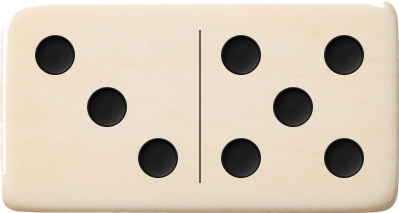
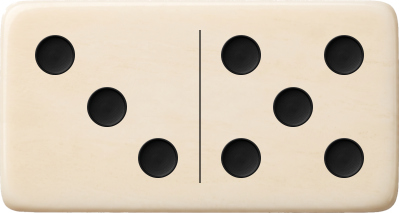
Arreglar el recorte de las fichas blanco hueso
Salian cortadas rectas por la izquierda y con las esquinas mordidas. La
causa se midio en vez de tantearla: el fondo se separa del gris puro
entre 0 y 3, y el marfil entre 24 y 57. El recorte usaba 26, asi que se
comia el borde de la ficha, que ronda 25.

Habia un segundo error escondido: se exigia ademas un brillo minimo de
150, y el borde de abajo de la ficha es oscuro (132), asi que tambien se
perdia.

Ahora la ficha se recorta con 16 y sin limite de brillo, y el punto con
20 y con limite, porque ahi el fondo es claro y el punto oscuro y sin el
limite se borraria el punto.

Las direcciones llevan un numero de version para que el navegador no se
quede con las feas guardadas.

diff --git a/frontend/src/components/game/MesaTheme.jsx b/frontend/src/components/game/MesaTheme.jsx
@@ -42,6 +42,19 @@ export const FICHAS = [
  * carpeta a todos seria arrastrarla por media aplicacion.
  */
 export const ContextoFichas = createContext('/tiles');
+
+/**
+ * Se sube cuando cambia el DIBUJO de alguna ficha sin cambiar su nombre.
+ *
+ * Los archivos se llaman siempre igual (`tile_6_6.png`), asi que el navegador
+ * se queda con el que ya tenia guardado y no ve el nuevo. Este numero viaja
+ * pegado a la direccion y lo obliga a pedirlo otra vez.
+ *
+ * 2 = se rehicieron las blanco hueso: la primera tanda salio con el borde
+ *     izquierdo cortado y las esquinas mordidas.
+ */
+export const VERSION_FICHAS = 2;
+
 export const useCarpetaDeFichas = () => useContext(ContextoFichas);
 
 const DEFECTO = { pano: 'tela', baranda: 'foto', fichas: 'clasica' };

diff --git a/frontend/src/components/game/Tile.jsx b/frontend/src/components/game/Tile.jsx
@@ -1,4 +1,4 @@
-import { useCarpetaDeFichas } from './MesaTheme.jsx';
+import { useCarpetaDeFichas, VERSION_FICHAS } from './MesaTheme.jsx';
 
 export default function Tile({
   tile,
@@ -20,7 +20,7 @@ export default function Tile({
 
   const min = Math.min(a, b);
   const max = Math.max(a, b);
-  const imgSrc = `${carpeta}/tile_${min}_${max}.png`;
+  const imgSrc = `${carpeta}/tile_${min}_${max}.png?v=${VERSION_FICHAS}`;
 
   const finalSize = size === 'md' && small ? 'sm' : size;
 

diff --git a/contexto/README.md b/contexto/README.md
@@ -4629,3 +4629,43 @@ pasarles la carpeta a todos seria arrastrarla por media aplicacion.
 En `frontend/arte-fuente/`. Si estuviera dentro de `public`, Vite lo copiaria al sitio
 publicado y se subirian cinco megas de imagenes que ningun jugador descarga. Solo hacen
 falta para volver a generar las fichas.
+
+
+---
+
+## 106. El recorte estaba mal, y por que
+
+Jonathan, viendo la primera tanda: *"se ve feo, mal recortado o mal difuminado"*. Tenia
+razon: la ficha salia **cortada recta por la izquierda** y con las esquinas mordidas.
+
+### La causa, medida
+
+Se midieron los colores de verdad en vez de tantear:
+
+| | separacion del gris puro (`dif`) | brillo minimo |
+| --- | --- | --- |
+| fondo cuadriculado | 0 a 3 | 205 a 255 |
+| marfil de la ficha | **24 a 57** | 132 en el borde de abajo |
+| punto negro | 0 a 3 | 12 a 49 |
+
+El recorte usaba `dif <= 26`. El borde de la ficha ronda **25**, asi que **se lo comia**, y
+al recortar despues a lo que quedaba visible la ficha salia cortada recta.
+
+Habia un segundo error escondido: se exigia ademas `brillo >= 150`, y **el borde de abajo de
+la ficha es oscuro (132)**, asi que ese tambien se perdia.
+
+### El arreglo
+
+- **Ficha:** `dif <= 16` y **sin** limite de brillo. Con el marfil en 24 hay margen de sobra
+  para los dos lados, y el borde oscuro de abajo se conserva.
+- **Punto:** `dif <= 20` **con** limite de brillo, porque ahi el fondo es claro y el punto
+  oscuro: sin el limite se borraria el punto, que tambien es gris.
+
+La leccion es la de siempre en este proyecto: **medir antes de tocar**. Un numero puesto a
+ojo (26) que estaba a un pelo del real (24) se llevo por delante todas las fichas.
+
+### Y la cache
+
+Los archivos se llaman igual que antes, asi que el navegador se quedaba con las feas
+guardadas. Las direcciones llevan ahora un numero de version (`?v=2`) que lo obliga a
+pedirlas de nuevo. Se sube cada vez que cambie el dibujo sin cambiar el nombre.
